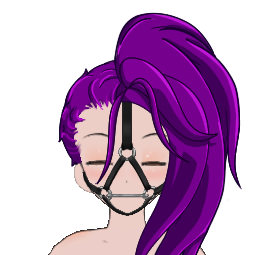
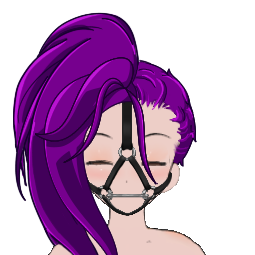
Added Horn, Dildocorn, Blinders, Missing files

diff --git a/BondageClub/Assets/Female3DCG/Female3DCG.js b/BondageClub/Assets/Female3DCG/Female3DCG.js
@@ -1291,7 +1291,8 @@ var AssetFemale3DCG = [
 					{ Name: "Leaves" },
 					{ Name: "Center" }
 				]
-			}
+			},
+
 		],
 		Color: ["Default", "#202020", "#808080", "#bbbbbb", "#aa8080", "#80aa80", "#8080aa", "#aaaa80", "#80aaaa", "#aa80aa", "#cc3333", "#33cc33", "#3333cc", "#cccc33", "#33cccc", "#cc33cc"]
 	},
@@ -1400,6 +1401,13 @@ var AssetFemale3DCG = [
 				]
 			},
 			{ Name: "Antennae", Value: 10, BuyGroup: "Antennae", BodyCosplay: true, DefaultColor: "#151A1F" },
+			
+			{ Name: "UnicornHorn", Value: 50, DefaultColor: "#EBAACB", BuyGroup: "UnicornHorn", BodyCosplay: true, Top: -30,
+				Layer: [
+					{ Name: "Base"},
+					{ Name: "Shine", AllowColorize: false}
+				]
+			},
 		],
 		Color: ["Default", "#202020", "#808080", "#bbbbbb", "#aa8080", "#80aa80", "#8080aa", "#aaaa80", "#80aaaa", "#aa80aa", "#cc3333", "#33cc33", "#3333cc", "#cccc33", "#33cccc", "#cc33cc"]
 	},
@@ -1463,6 +1471,12 @@ var AssetFemale3DCG = [
 			{ Name: "ElfEars", Value: -1, BuyGroup: "ElfEars", InheritColor: "BodyUpper", Extended: true, HasType: false },
 			{ Name: "CowHorns", Fetish: ["Pet"], Value: -1, BuyGroup: "CowHorns" },
 			{ Name: "Antennae", Value: -1, BuyGroup: "Antennae", BodyCosplay: true, DefaultColor: "#151A1F" },
+			{ Name: "UnicornHorn", Value: -1, DefaultColor: ["#EBAACB"], BuyGroup: "UnicornHorn", BodyCosplay: true,
+				Layer: [
+					{ Name: "Base"},
+					{ Name: "Shine", AllowColorize: false}
+				]
+			},
 		],
 		Color: ["Default", "#202020", "#808080", "#bbbbbb", "#aa8080", "#80aa80", "#8080aa", "#aaaa80", "#80aaaa", "#aa80aa", "#cc3333", "#33cc33", "#3333cc", "#cccc33", "#33cccc", "#cc33cc"]
 	},
@@ -4361,11 +4375,11 @@ var AssetFemale3DCG = [
 				]
 			},
 			{
-				Name: "PonyGag", Fetish: ["Leather", "Pony", "Pet"], Value: 120, Difficulty: 4, Time: 20, Random: false, AllowLock: true, BuyGroup: "PonyGag", Prerequisite: "GagUnique", DefaultColor: ["Default", "Default", "Default", "#EAEAEA", "Default", "#EBAACD", "Default","Default"], Extended: true, AlwaysExtend: true, Effect: ["BlockMouth", "GagLight"], Bonus: "KidnapBruteForce", Top: -57, Left: 133,
+				Name: "PonyGag", Fetish: ["Leather", "Pony", "Pet"], Value: 120, Difficulty: 4, Time: 20, Random: false, AllowLock: true, BuyGroup: "PonyGag", Prerequisite: "GagUnique", DefaultColor: ["Default", "Default", "Default", "#EAEAEA", "Default", "FF89D8", "Default","Default"], Extended: true, AlwaysExtend: true, Effect: ["BlockMouth", "GagLight"], Bonus: "KidnapBruteForce", Top: -57, Left: 133,
 				Layer: [
 				// Layers: Metal, Straps, Plume, Horn, Panel
-					{ Name: "BaseMetal", HasType: false, AllowColorize: false },	
-					{ Name: "ManeB", HasType: false, AllowModuleTypes: ["t2", "t3"], CopyLayerColor: "HairFront"},					
+					{ Name: "BaseMetal", HasType: false, AllowColorize: false },
+					{ Name: "ManeB", HasType: false, AllowModuleTypes: ["t2", "t3"] },					
 					{ Name: "BaseStraps", HasType: false, AllowColorize: true },
 					
 					// All Gags
@@ -4378,14 +4392,17 @@ var AssetFemale3DCG = [
 					// All Top Pieces
 					{ Name: "Plume", HasType: false, AllowModuleTypes: ["t1"] },
 					{ Name: "PlumeBase", HasType: false, AllowColorize: false, AllowModuleTypes: ["t1"]},
-					{ Name: "ManeL", HasType: false, AllowModuleTypes: ["t2"], CopyLayerColor: "HairFront", Hide: "HairFront"},
-					{ Name: "ManeR", HasType: false, AllowModuleTypes: ["t3"], CopyLayerColor: "HairFront", Hide: "HairFront"},
+					{ Name: "ManeL", HasType: false, AllowModuleTypes: ["t2"] },
+					{ Name: "ManeR", HasType: false, AllowModuleTypes: ["t3"], CopyLayerColor: "ManeL" },
 					
-					//{ Name: "Mohawk", HasImage: false, AllowModuleTypes:["t3"], CopyLayerColor: "HairFront" , Hide: "HairFront"},
-					//{ Name: "MohawkBase", HasImage: false, AllowModuleTypes:["t3"], CopyLayerColor: "HairFront", Hide: "Straps"},
+					//{ Name: "Mohawk", HasImage: false, AllowModuleTypes:["t4"], CopyLayerColor: "HairFront" , Hide: "HairFront"},
+					//{ Name: "MohawkBase", HasImage: false, AllowModuleTypes:["t4"], CopyLayerColor: "HairFront", Hide: "Straps"},
 					
 					//Horns
 					{ Name: "Horn", HasType: false, AllowModuleTypes: ["h1"], Priority: 58 },
+					{ Name: "HornShine", HasType: false, AllowModuleTypes: ["h1"], AllowColorize: false, Priority: 58 },
+					{ Name: "Horn2", HasType: false, AllowModuleTypes: ["h2"], CopyLayerColor: "Horn", Priority: 58 },
+					{ Name: "Horn2Shine", HasType: false, AllowModuleTypes: ["h2"], AllowColorize: false, Priority: 58 },
 
 					// All Panels
 					{ Name: "PanelBase", HasType: false, AllowModuleTypes: ["p1", "p2","p3" ,"p4" ,"p5" ,"p6" ,"p7" ,"p8"], AllowColorize: true, Priority: 55  },

diff --git a/BondageClub/Assets/Female3DCG/Female3DCGExtended.js b/BondageClub/Assets/Female3DCG/Female3DCGExtended.js
@@ -3703,14 +3703,8 @@ var AssetFemale3DCGExtended = {
 					{
 						Name: "Gag", Key: "g",
 						Options:[
-							{ //Regular BitGag
-								Name: "BitAttached", 
-								Property: { Effect: [] }
-							},
-							{//None
-								Name: "Detached",
-								Property: { Effect: ["OpenMouth"], OverrideAssetEffect: true },
-							},
+							{ Property: { Effect: [] }, },  //Regular BitGag
+							{Property: { Effect: ["OpenMouth"], OverrideAssetEffect: true },},
 							
 						],
 					},
@@ -3733,10 +3727,8 @@ var AssetFemale3DCGExtended = {
 						Name: "Reins", Key: "r",
 						Options:[
 							{}, //r0 -None
-							{   //r1 -Reins
-								Property: {Effect: ["Leash"] },
-							},
-							
+							{ Property: {Effect: ["Leash"] },}, //r1 -Reins
+
 						],
 					},
 					{
@@ -3744,8 +3736,8 @@ var AssetFemale3DCGExtended = {
 						Options:[
 							{}, //t0- None
 							{}, //t1- Plume
-							{Hide: "HairFront"}, //t2- Mane Left
-							{Hide: "HairFront"}, //t3- Mane Right
+							{Property: {Hide: ["HairFront"]},}, //t2- Mane Left
+							{Property: {Hide: ["HairFront"]},}, //t3- Mane Right
 							
 						],
 					},
@@ -3761,13 +3753,14 @@ var AssetFemale3DCGExtended = {
 						Options:[
 							{}, //h0 - None
 							{}, //h1 - Horn
+							{}, //h2 - Dildocorn
 						],
 					},
 					{
 						Name: "Blinders", Key: "b",
 						Options:[
 							{}, //b0 - None
-							{}, //b1 - Blinders
+							{Property: {Effect: ["BlindLight"]},}, //b1 - Blinders
 						],
 					},
 				],
